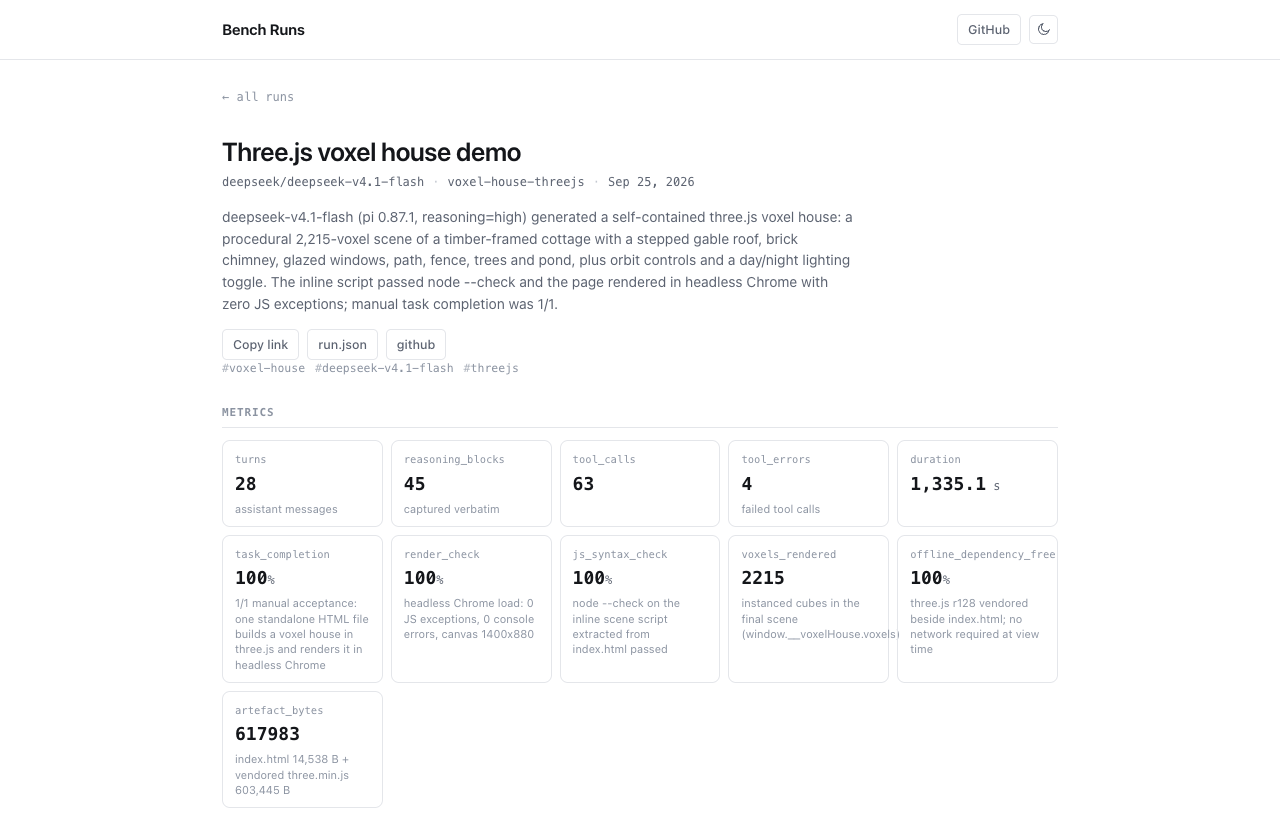
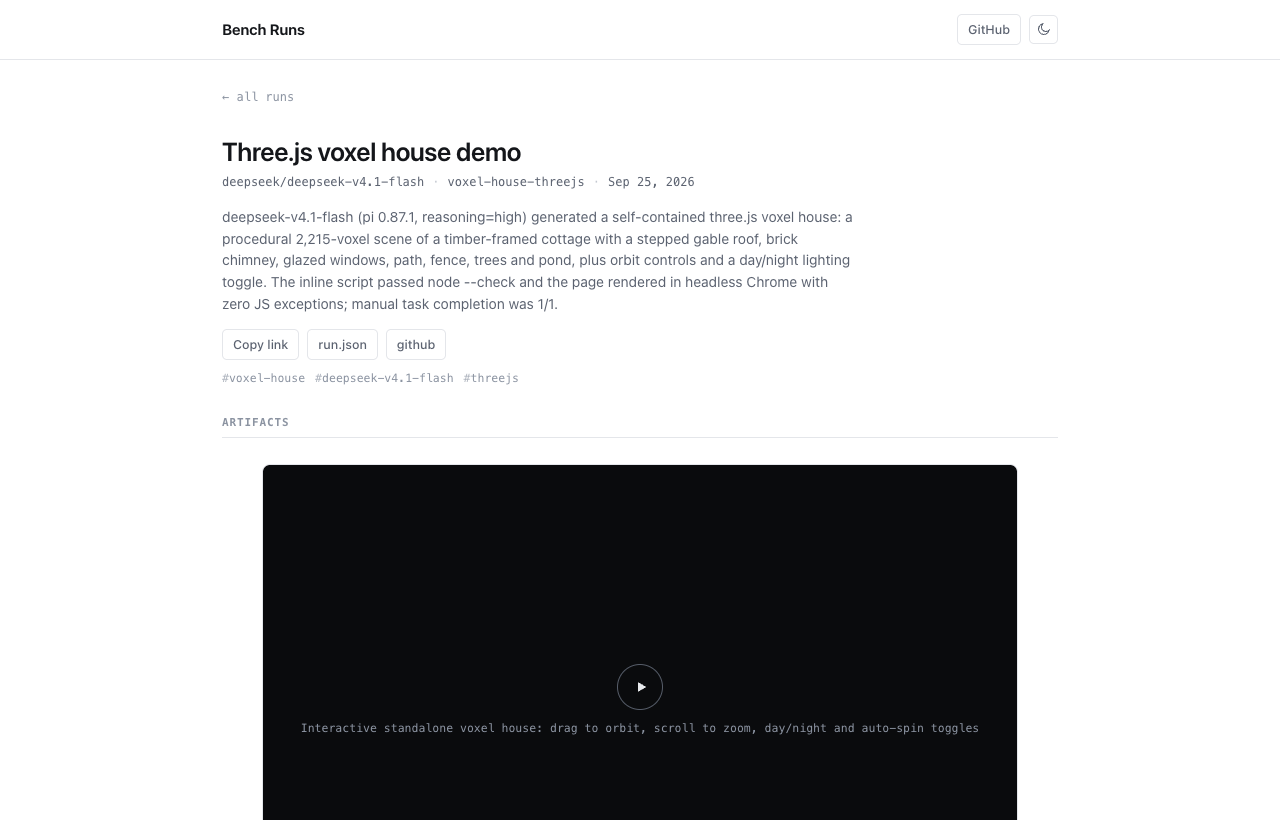
design: collapse metrics into a disclosure below artifacts
Eighteen bordered tiles, each with a label, a big number and a paragraph of
explanation, sat above the artifacts — the least interesting content on the
page, occupying the most space.

- Metrics is now a collapsed disclosure, placed after Artifacts and Charts:
  one summary row reading "Metrics … 18".
- Inside, a dense label/value list (18 rows in ~240px instead of ~600px).
  The per-metric explanation is kept as a title tooltip rather than a
  paragraph in every cell.
- Charts moved below Artifacts so the artifact — the actual point of the run
  — is the first thing on the page.

Smoke test covers the collapsed-by-default state and the tooltips (37 checks).

Changed region(s): [[0.1562, 0.4268, 0.8125, 1.0]]

diff --git a/public/styles.css b/public/styles.css
@@ -224,7 +224,7 @@ main { max-width: var(--maxw); margin: 0 auto; padding: 28px var(--pad) 64px; }
 .run-sub .sep { color: var(--border-strong); margin: 0 8px; }
 .run-summary { margin-top: 14px; color: var(--muted); max-width: 72ch; }
 .run-actions { display: flex; flex-wrap: wrap; gap: 8px; margin-top: 14px; }
-.tags { display: flex; flex-wrap: wrap; gap: 10px; }
+.tags { display: flex; flex-wrap: wrap; gap: 10px; margin-top: 10px; }
 .tag { font-family: var(--mono); font-size: 11.5px; color: var(--faint); }
 .tag::before { content: "#"; opacity: 0.7; }
 
@@ -235,13 +235,21 @@ main { max-width: var(--maxw); margin: 0 auto; padding: 28px var(--pad) 64px; }
   padding-bottom: 8px; border-bottom: 1px solid var(--border);
 }
 
-/* metrics */
-.metrics { display: grid; gap: 8px; grid-template-columns: repeat(auto-fit, minmax(150px, 1fr)); }
-.metric { padding: 10px 12px; border: 1px solid var(--border); border-radius: var(--r); }
-.metric-label { font-family: var(--mono); font-size: 10.5px; color: var(--faint); }
-.metric-value { font-family: var(--mono); font-size: 18px; font-weight: 600; margin-top: 2px; font-variant-numeric: tabular-nums; }
-.metric-value .unit { font-size: 12px; color: var(--muted); font-weight: 400; }
-.metric-hint { font-size: 11px; color: var(--faint); margin-top: 3px; line-height: 1.4; }
+/* metrics — a dense label/value list inside a collapsed disclosure */
+.metrics { display: grid; gap: 0 24px; grid-template-columns: repeat(auto-fit, minmax(200px, 1fr)); margin: 0; }
+.metric {
+  display: flex; align-items: baseline; justify-content: space-between; gap: 12px;
+  padding: 4px 0; border-bottom: 1px solid var(--border);
+}
+.metric dt {
+  font-family: var(--mono); font-size: 11.5px; color: var(--faint);
+  overflow: hidden; text-overflow: ellipsis; white-space: nowrap;
+}
+.metric dd {
+  margin: 0; font-family: var(--mono); font-size: 13px; font-weight: 600;
+  font-variant-numeric: tabular-nums; white-space: nowrap;
+}
+.metric dd .unit { font-size: 11.5px; font-weight: 400; color: var(--muted); }
 
 /* charts */
 .chart { border: 1px solid var(--border); border-radius: var(--r); padding: 14px; }
@@ -313,6 +321,8 @@ tbody tr:last-child td { border-bottom: 0; }
 .disclosure > summary::before { content: "▸"; color: var(--faint); }
 .disclosure[open] > summary::before { content: "▾"; }
 .disclosure > summary:hover { color: var(--text); }
+.disclosure > summary > span:first-child { overflow: hidden; text-overflow: ellipsis; white-space: nowrap; }
+.summary-count { margin-left: auto; color: var(--faint); font-size: 11px; }
 .disclosure-content { padding: 12px; border-top: 1px solid var(--border); display: flex; flex-direction: column; gap: 16px; }
 
 .kv { display: grid; grid-template-columns: max-content 1fr; gap: 6px 16px; font-family: var(--mono); font-size: 11.5px; margin: 0; }

diff --git a/public/app.js b/public/app.js
@@ -535,18 +535,10 @@ function renderDetail(run) {
     ),
   );
 
-  if (run.metrics?.length) {
+  if (artifacts.length) {
     host.append(h('section', { class: 'section' },
-      h('h2', { class: 'section-title', text: 'Metrics' }),
-      h('div', { class: 'metrics' }, run.metrics.map((m) =>
-        h('div', { class: 'metric' },
-          h('div', { class: 'metric-label', text: m.label }),
-          h('div', { class: 'metric-value' },
-            fmtNumber(m.value, m.unit),
-            m.unit ? h('span', { class: 'unit', text: m.unit === '%' ? '%' : ' ' + m.unit }) : null),
-          m.hint ? h('div', { class: 'metric-hint', text: m.hint }) : null,
-        ))),
-    ));
+      h('h2', { class: 'section-title', text: 'Artifacts' }),
+      h('div', { class: 'gallery' }, artifacts.map((item, i) => renderMedia(run, item, i)))));
   }
 
   const charts = (run.charts ?? []).map(renderChart).filter(Boolean);
@@ -556,10 +548,22 @@ function renderDetail(run) {
       h('div', { class: 'gallery' }, charts)));
   }
 
-  if (artifacts.length) {
+  // Metrics are provenance, not the headline: collapsed by default, and only a
+  // label and a value on screen — the longer explanation behind each number
+  // rides along as a tooltip instead of a paragraph in every cell.
+  if (run.metrics?.length) {
     host.append(h('section', { class: 'section' },
-      h('h2', { class: 'section-title', text: 'Artifacts' }),
-      h('div', { class: 'gallery' }, artifacts.map((item, i) => renderMedia(run, item, i)))));
+      h('details', { class: 'disclosure disclosure-metrics' },
+        h('summary', {},
+          h('span', { text: 'Metrics' }),
+          h('span', { class: 'summary-count', text: String(run.metrics.length) })),
+        h('div', { class: 'disclosure-content' },
+          h('dl', { class: 'metrics' }, run.metrics.map((m) =>
+            h('div', { class: 'metric', title: m.hint || null },
+              h('dt', { text: m.label }),
+              h('dd', {},
+                fmtNumber(m.value, m.unit),
+                m.unit ? h('span', { class: 'unit', text: m.unit === '%' ? '%' : ' ' + m.unit }) : null))))))));
   }
 
   if (env.length || warnings.length || run.notes || logs.length) {
@@ -582,8 +586,8 @@ function renderDetail(run) {
     }
 
     host.append(h('section', { class: 'section' },
-      h('details', { class: 'disclosure' },
-        h('summary', { text: `Prompt, transcript, environment${env.length ? ' & notes' : ''}` }),
+      h('details', { class: 'disclosure disclosure-logs' },
+        h('summary', {}, h('span', { text: `Prompt, transcript, environment${env.length ? ' & notes' : ''}` })),
         content)));
   }
 

diff --git a/public/index.html b/public/index.html
@@ -7,7 +7,7 @@
 <meta name="description" content="LLM benchmark runs: results, artifacts and provenance.">
 <meta name="color-scheme" content="dark light">
 <link rel="icon" href="favicon.svg" type="image/svg+xml">
-<link rel="stylesheet" href="styles.css?v=qffi5n">
+<link rel="stylesheet" href="styles.css?v=1hiryo6">
 <script>
   // ── Site configuration ──────────────────────────────────────────────────────
   window.BENCH_CONFIG = {
@@ -88,6 +88,6 @@
   <img id="lightboxImg" alt="">
 </div>
 
-<script type="module" src="app.js?v=qffi5n"></script>
+<script type="module" src="app.js?v=1hiryo6"></script>
 </body>
 </html>
